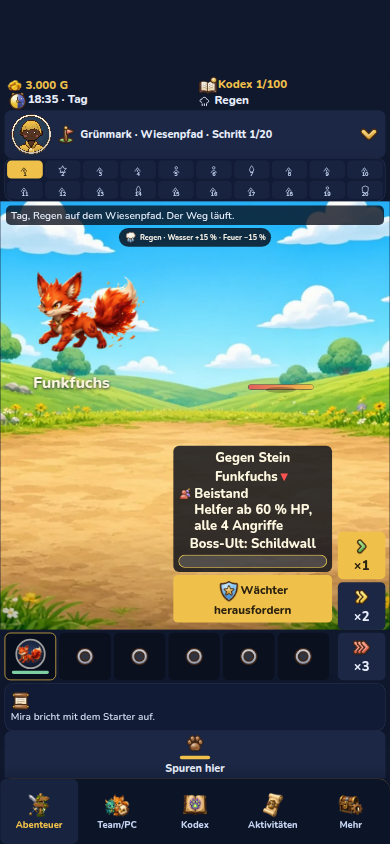
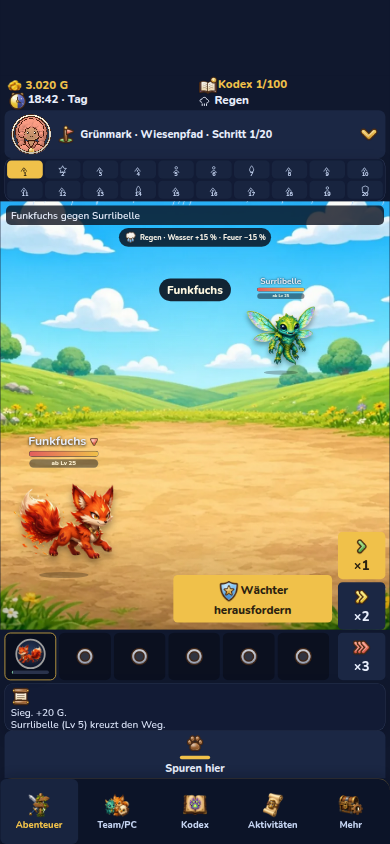
Startseite S4: Kopf freihalten und den ersten Kampf zeigen.
Der Sprachchip steht neben dem Namensbild, der Untertitel darunter. Der gewählte Look bleibt in der Kopfzeile, und der Screenshot entsteht nach dem Einlauf, wenn der Gegner da ist und die Boss-Karte weg ist.

diff --git a/src/adventure/view.ts b/src/adventure/view.ts
@@ -1276,21 +1276,30 @@ export function brokenHtml(lang: Lang = 'de', backup = false): string {
   </div>`
 }
 
-function homeTop(lang: Lang, open: boolean, hero = false, reduced = false): string {
+function homeTop(lang: Lang, open: boolean, hero = false, reduced = false, compact = false): string {
+  const chip = `<button type="button" class="lang-chip" data-act="lang-sheet" aria-expanded="${open ? 'true' : 'false'}" aria-label="${esc(t(lang, 'start.lang'))}">${lang === 'en' ? 'EN' : 'DE'} ▾</button>`
   if (!hero) {
     return `<div class="home-top">
       <p class="home-kicker">${t(lang, 'start.kicker')}</p>
-      <button type="button" class="lang-chip" data-act="lang-sheet" aria-expanded="${open ? 'true' : 'false'}" aria-label="${esc(t(lang, 'start.lang'))}">${lang === 'en' ? 'EN' : 'DE'} ▾</button>
+      ${chip}
     </div>`
   }
-  return `<header class="home-hero">
-    <img class="home-lqip" src="${art('home/keyart_1080_lqip.jpg')}" alt=""/>
+  const picture = `<img class="home-lqip" src="${art('home/keyart_1080_lqip.jpg')}" alt=""/>
     <img class="home-key" src="${art('home/keyart_1080.webp')}" alt="${esc(t(lang, 'start.lead'))}"/>
     <img class="home-logo" src="${art('home/logo_velunor_light.png')}" alt="Velunor"/>
-    <p class="home-hero-lead">${esc(t(lang, 'start.lead'))}</p>
-    <div class="home-particles" data-reduced="${reduced ? '1' : '0'}"></div>
-    <button type="button" class="lang-chip" data-act="lang-sheet" aria-expanded="${open ? 'true' : 'false'}" aria-label="${esc(t(lang, 'start.lang'))}">${lang === 'en' ? 'EN' : 'DE'} ▾</button>
-  </header>`
+    <div class="home-particles" data-reduced="${reduced ? '1' : '0'}"></div>`
+  if (!compact) {
+    return `<header class="home-hero">
+      ${picture}
+      <p class="home-hero-lead">${esc(t(lang, 'start.lead'))}</p>
+      ${chip}
+    </header>`
+  }
+  return `<div class="home-head">
+    <header class="home-hero">${picture}</header>
+    ${chip}
+  </div>
+  <p class="home-hero-lead">${esc(t(lang, 'start.lead'))}</p>`
 }
 
 export function loadingHtml(fraction: number, hint: string, failed: boolean, lang: Lang = 'de'): string {
@@ -1334,7 +1343,7 @@ export function onboardingHtml(name: string, look: AvatarLook, picked: string, l
   const thumb = !nameStep && picked ? `<img src="${art(`home/starter_${picked}.png`)}" alt=""/>` : ''
   return `<div id="stage" class="home${nameStep ? ' is-name' : ' is-starter'}" lang="${lang}">
     <div class="home-scroll">
-      ${homeTop(lang, langOpen, nameStep)}
+      ${homeTop(lang, langOpen, nameStep, false, nameStep)}
       ${nameStep ? nameStepHtml(name, look, lang, problem ? t(lang, `start.err.${problem}`) : '') : starterStepHtml(name, look, picked, lang)}
     </div>
     <div class="home-bar">

diff --git a/src/adventure/adventure.css b/src/adventure/adventure.css
@@ -468,6 +468,7 @@ textarea { width: 100%; box-sizing: border-box; background: #121a30; color: inhe
 .ground-shadow { position: absolute; left: 50%; bottom: -8px; width: 46%; height: 16px; transform: translateX(-50%); background: rgba(0,0,0,0.25); border-radius: 50%; }
 .combatant.ally { left: 28%; z-index: 3; }
 .combatant.foe { left: 72%; z-index: 2; }
+#foe-actor:has(#foe-sprite[hidden]) { opacity: 0; }
 .combatant img.sprite { height: 280px; width: auto; filter: drop-shadow(0 12px 10px rgba(0, 0, 0, 0.35)); }
 .combatant.ally img.sprite { transform: scaleX(-1); }
 .hp {
@@ -698,8 +699,19 @@ img.is-shiny { filter: drop-shadow(0 0 10px #f0c14a); }
   transform: translate(-50%, -50%);
   filter: drop-shadow(0 8px 12px rgba(6, 16, 32, 0.45));
 }
-.home.is-name .home-logo { top: 46%; width: 72%; }
+.home.is-name .home-logo { top: 50%; width: 78%; }
+.home-head { display: flex; align-items: flex-start; gap: 16px; margin: 0 0 8px; }
+.home-head .home-hero { flex: 1 1 auto; min-width: 0; height: 240px; margin: 0; }
+.home-head .lang-chip { position: static; flex: 0 0 auto; }
 .home-hero-lead {
+  position: static;
+  margin: 0 0 8px;
+  text-align: left;
+  font-size: 40px;
+  font-weight: 800;
+  color: #fff8e1;
+}
+.home.is-door .home-hero-lead {
   position: absolute;
   z-index: 2;
   left: 24px;
@@ -707,9 +719,6 @@ img.is-shiny { filter: drop-shadow(0 0 10px #f0c14a); }
   bottom: 18px;
   margin: 0;
   text-align: center;
-  font-size: 40px;
-  font-weight: 800;
-  color: #fff8e1;
   text-shadow: 0 2px 8px #102033;
 }
 .home-hero .lang-chip { position: absolute; z-index: 3; top: 16px; right: 16px; }

diff --git a/src/adventure/portrait.test.ts b/src/adventure/portrait.test.ts
@@ -60,6 +60,20 @@ describe('portrait shell', () => {
     expect(t('de', 'nav.more')).toBe('Mehr')
   })
 
+  it('puts the chosen look on the chapter header and hides the boss card while fighting', () => {
+    const look = { skin: 2, hair: 3, color: 1 }
+    const save = beginAdventure('Mira', look, 'm01', 1_000)
+    expect(save.look).toEqual(look)
+    const road = gameHtml(save, 'adventure', 1_000, pc, dex, null, false, false, null)
+    const header = road.slice(road.indexOf('chapter-line'), road.indexOf('chapter-text'))
+    expect(header).toContain(`data-look="${look.skin},${look.hair},${look.color}"`)
+    expect(road).toContain('guard-card')
+    const fight = gameHtml(save, 'adventure', 1_000, pc, dex, null, false, false, null, save.step, undefined, { fighting: true })
+    const fightHead = fight.slice(fight.indexOf('chapter-line'), fight.indexOf('chapter-text'))
+    expect(fightHead).toContain(`data-look="${look.skin},${look.hair},${look.color}"`)
+    expect(fight).not.toContain('guard-card')
+  })
+
   it('stacks the adventure screen and keeps Mehr behind one tab', () => {
     const save = beginAdventure('Ada', { skin: 0, hair: 0, color: 0 }, 'm01', 1_000)
     save.step = 4
